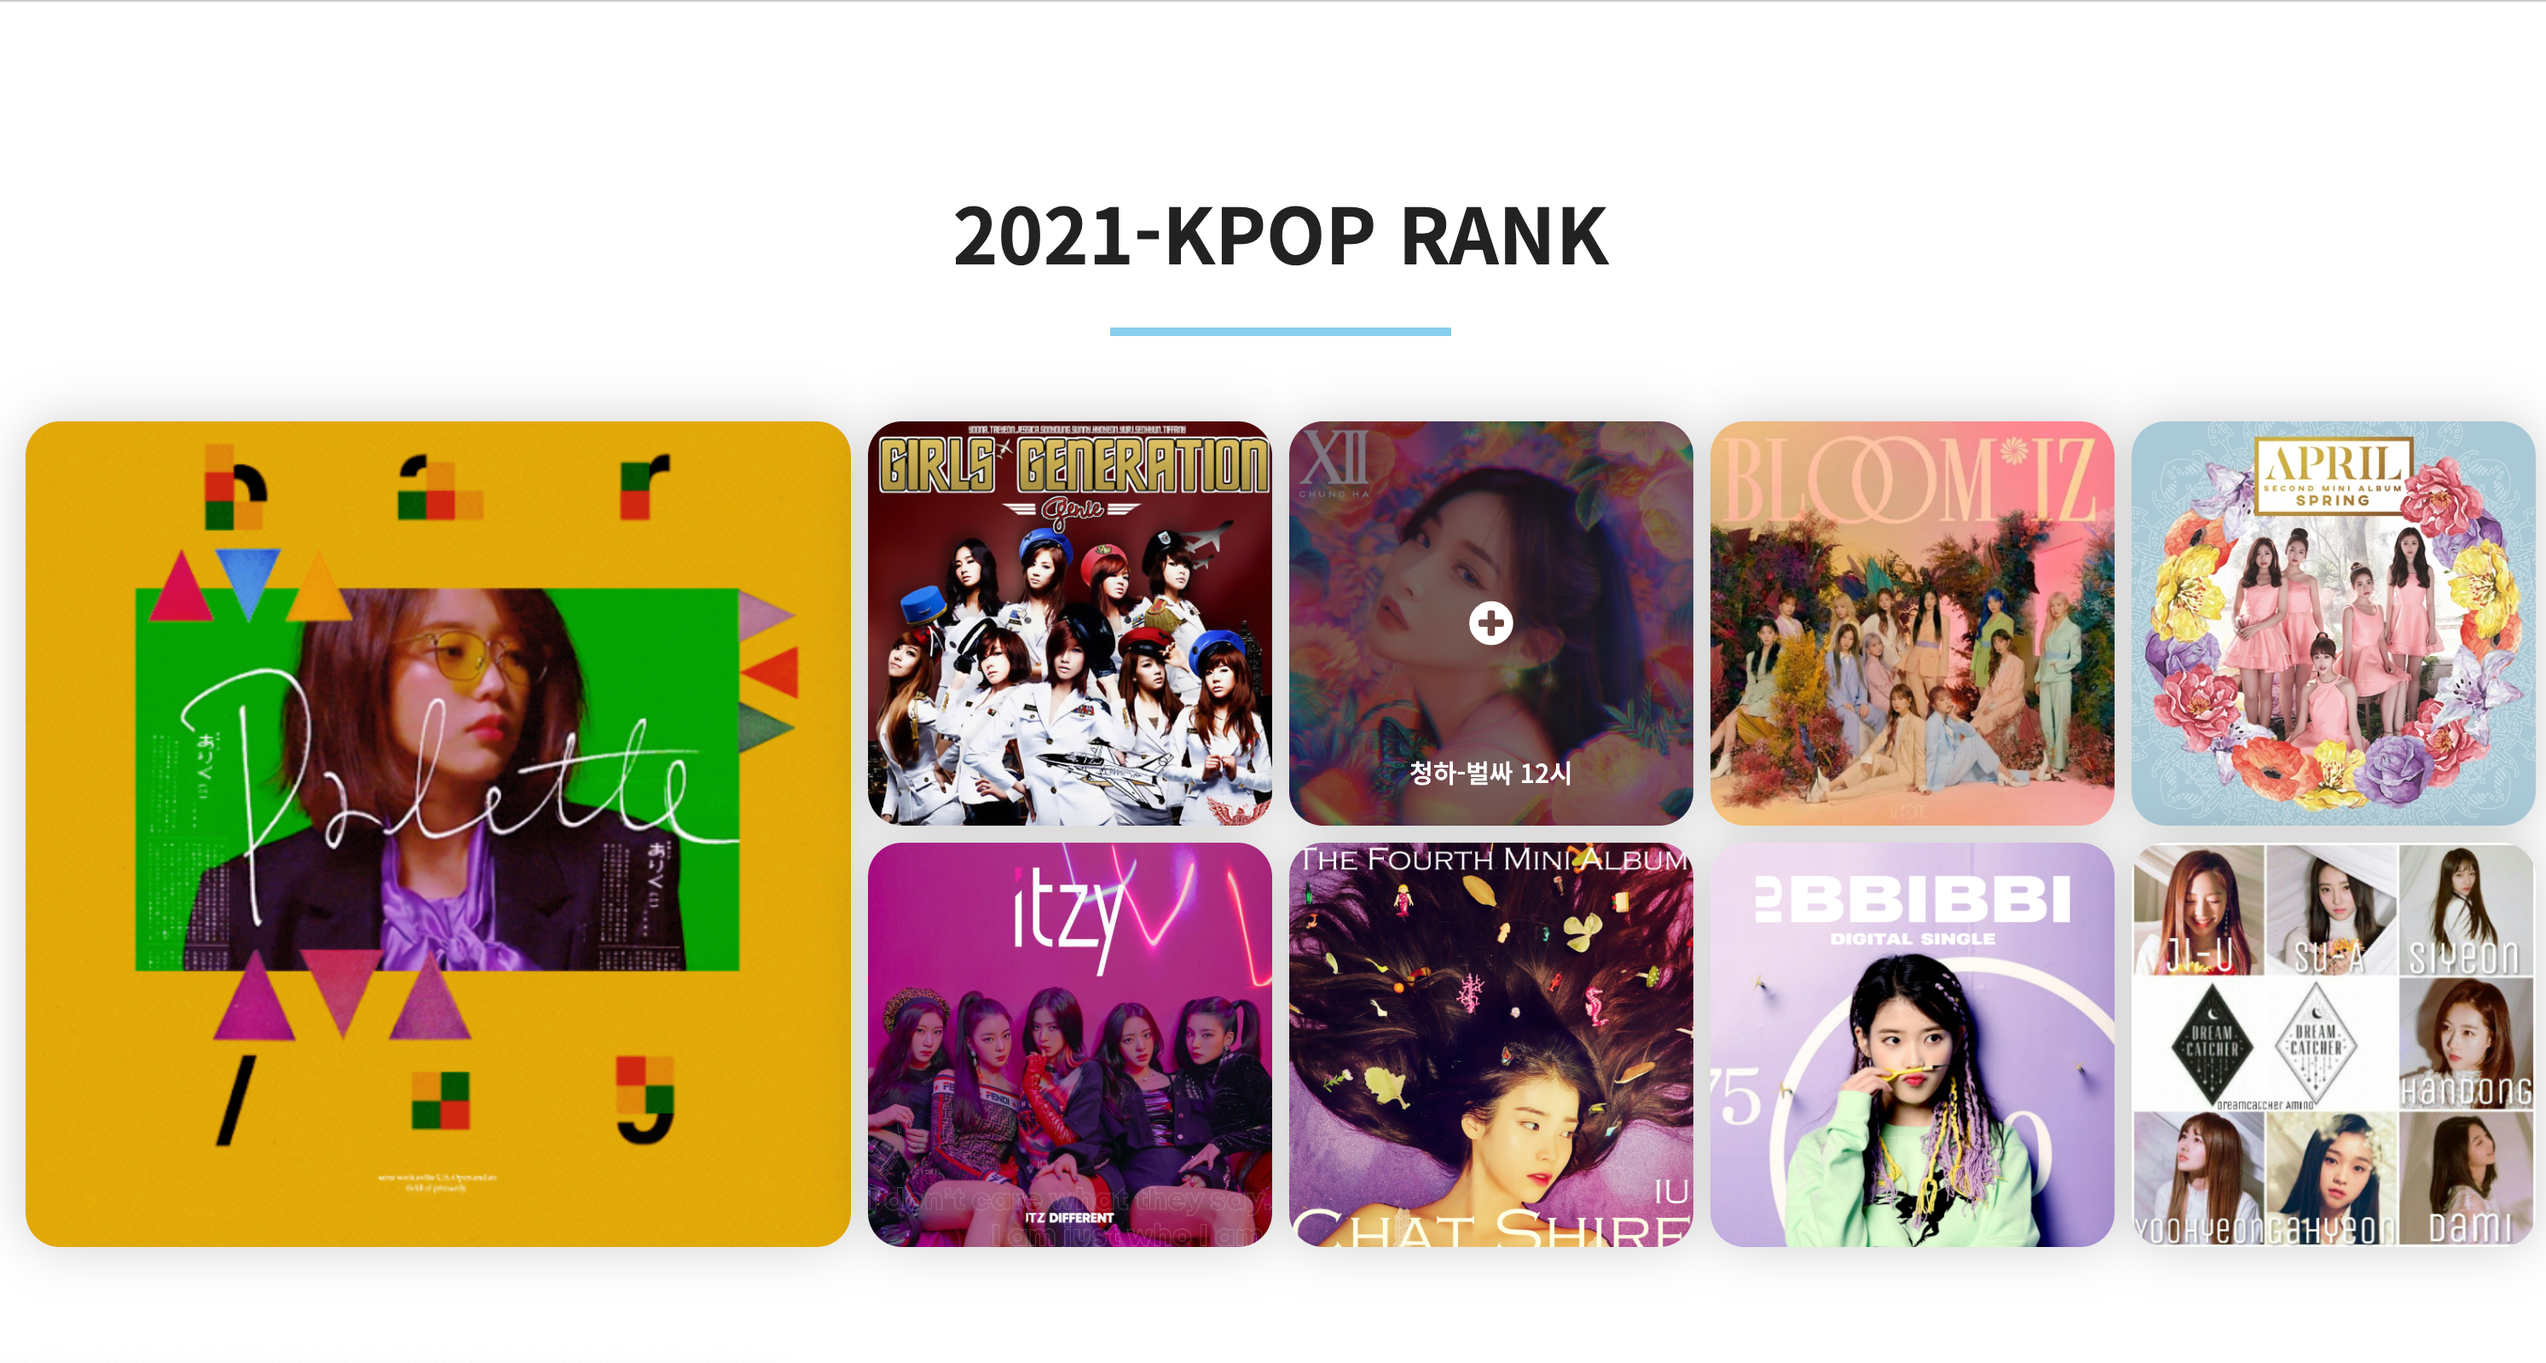
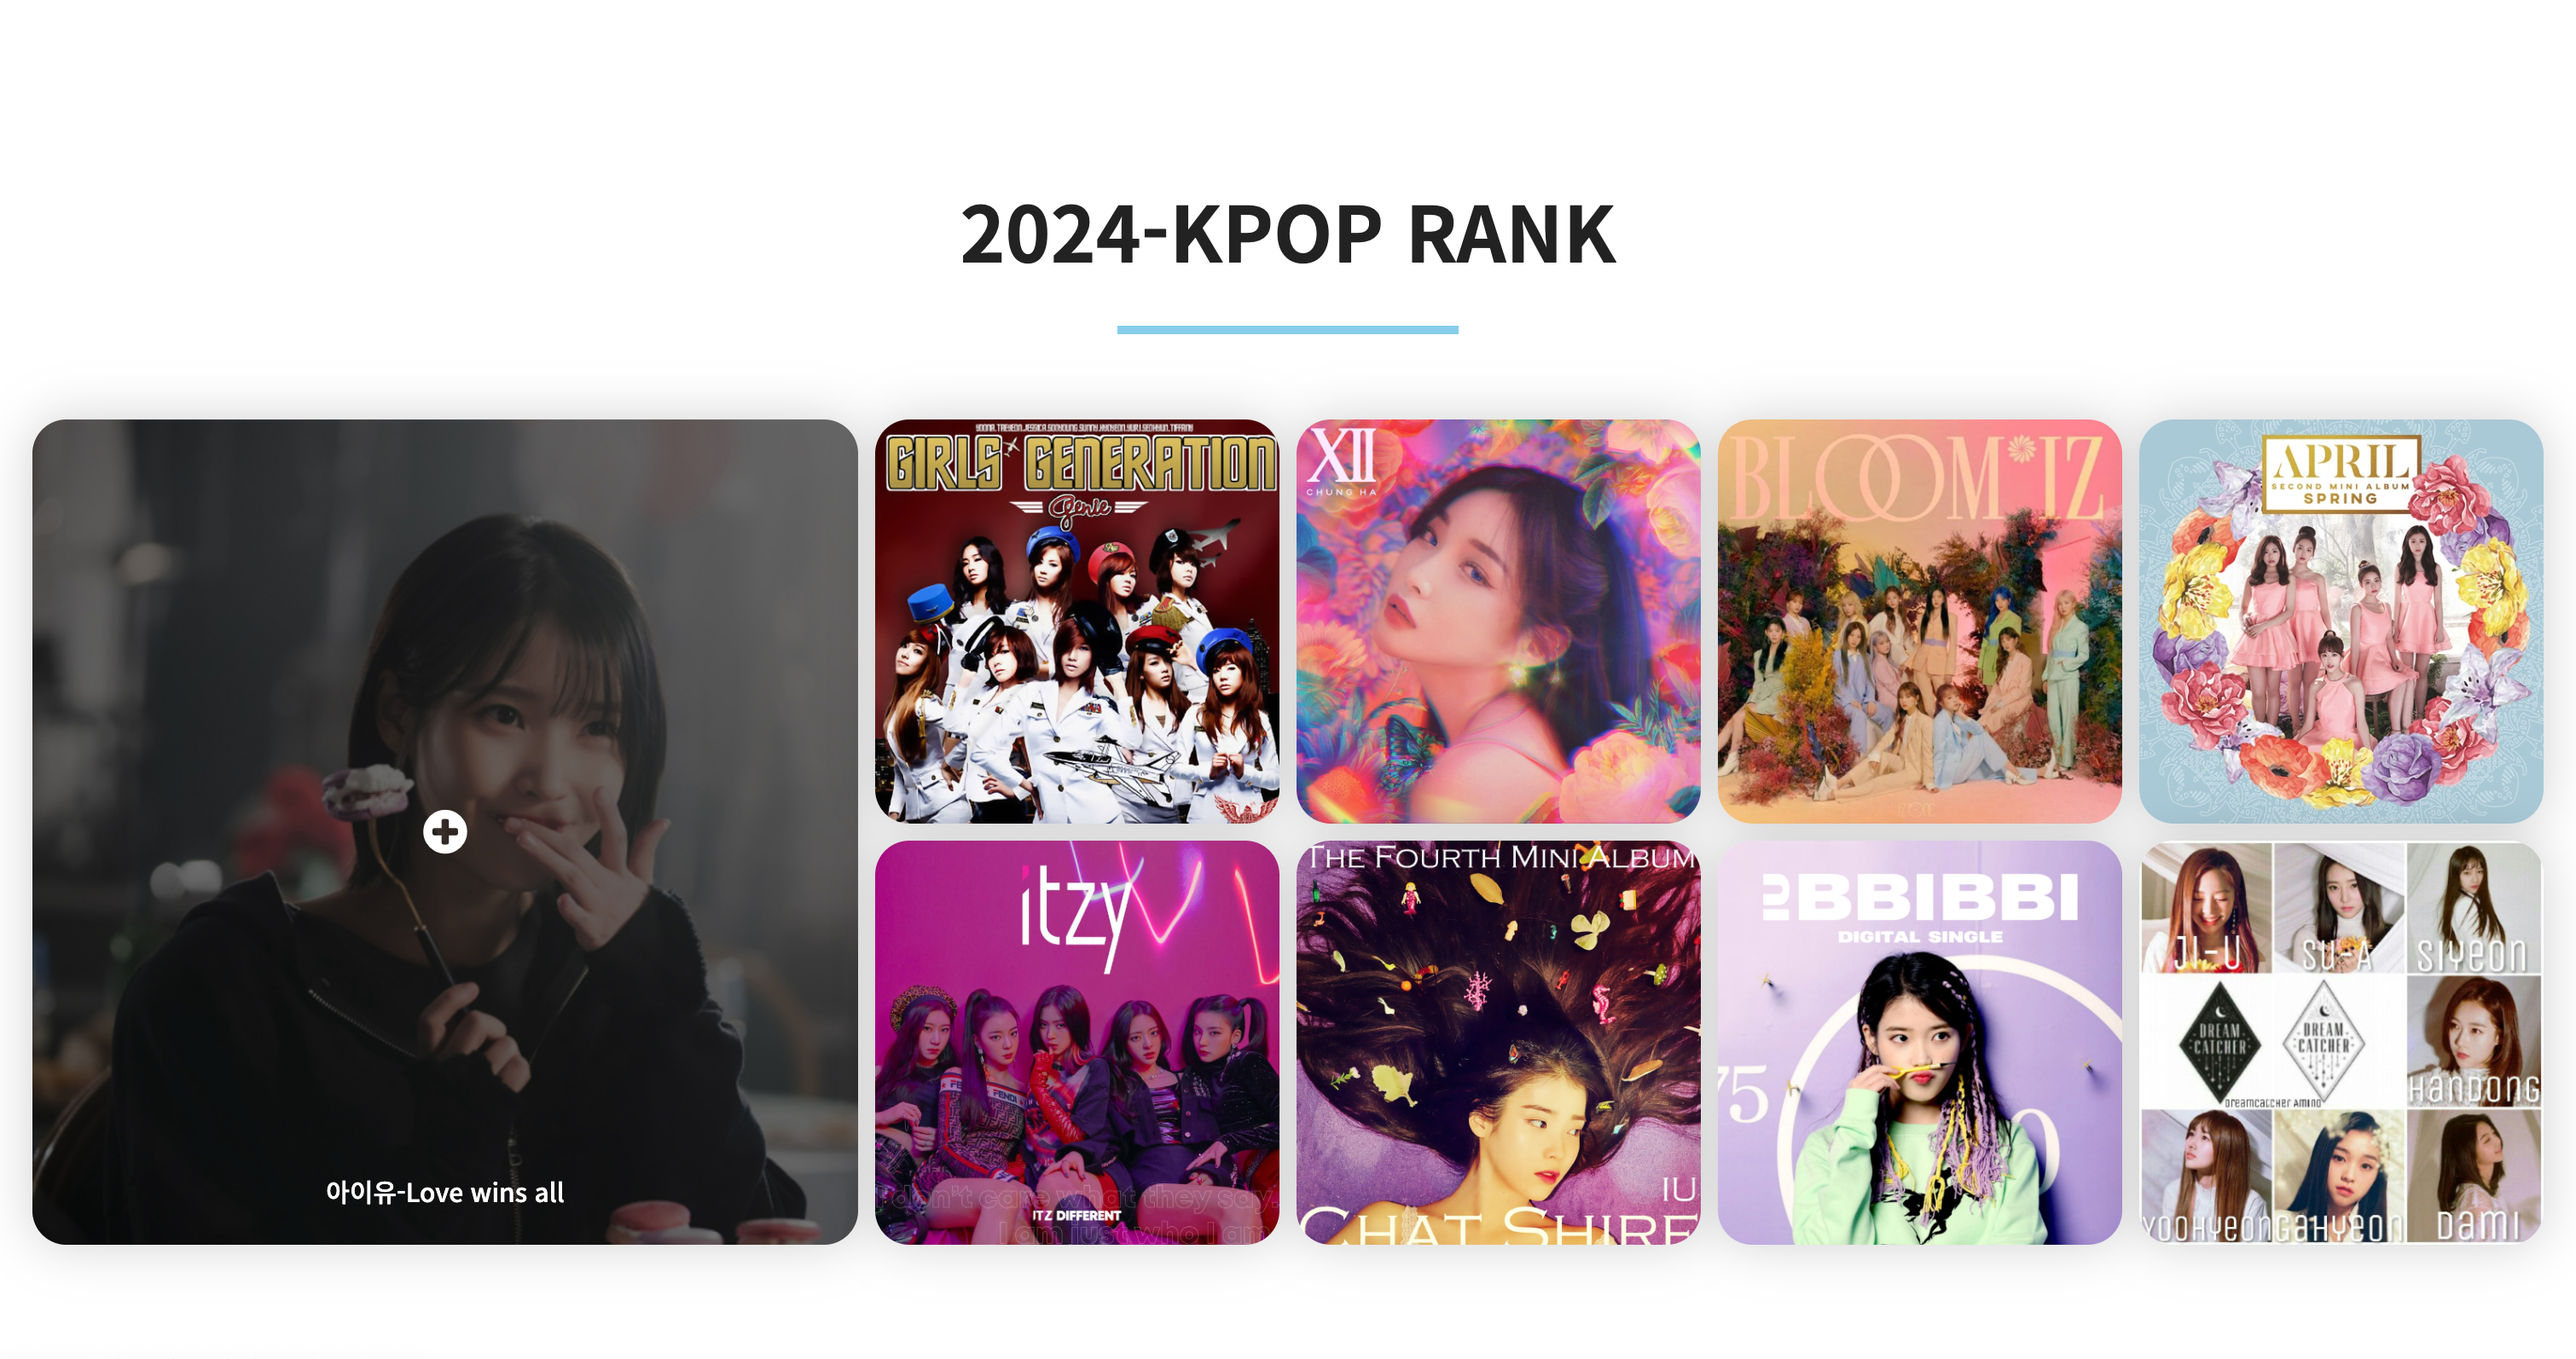
docs: work info 및 이미지 수정

diff --git a/index.html b/index.html
@@ -359,44 +359,74 @@
           <div class="swiper-wrapper">
             <div class="swiper-slide">
               <img class="slide-image" src="images/et01.jpg" alt="et01" />
-              <div class="link">
-                <a href="https://github.com/azure0929/hover-effect-01" target="_blank"><img src="images/github.png" alt="github" /></a>
-                <a href="https://hover-effect-01.netlify.app/" target="_blank">view</a>
+              <div class="info">
+                <div>
+                  <span>경우의 수 배우 프로필 - Flex&Filter</span>
+                </div>
+                <div class="link">
+                  <a href="https://github.com/azure0929/hover-effect-01" target="_blank"><img src="images/github.png" alt="github" /></a>
+                  <a href="https://hover-effect-01.netlify.app/" target="_blank">view</a>
+                </div>
               </div>
             </div>
             <div class="swiper-slide">
               <img class="slide-image" src="images/et02.jpg" alt="et02" />
-              <div class="link">
-                <a href="https://github.com/azure0929/hover-effect-02" target="_blank"><img src="images/github.png" alt="github" /></a>
-                <a href="https://hover-effect-02.netlify.app/" target="_blank">view</a>
+              <div class="info">
+                <div>
+                  <span>지역 소개 - Flex&@keyframe zoom</span>
+                </div>
+                <div class="link">
+                  <a href="https://github.com/azure0929/hover-effect-02" target="_blank"><img src="images/github.png" alt="github" /></a>
+                  <a href="https://hover-effect-02.netlify.app/" target="_blank">view</a>
+                </div>
               </div>
             </div>
             <div class="swiper-slide">
               <img class="slide-image" src="images/et03.jpg" alt="et03" />
-              <div class="link">
-                <a href="https://github.com/azure0929/prototype-01" target="_blank"><img src="images/github.png" alt="github" /></a>
-                <a href="https://prototype-kpop.netlify.app/" target="_blank">view</a>
+              <div class="info">
+                <div>
+                  <span>2024 K-POP RANK - Grid&Featherlight&반응형</span>
+                </div>
+                <div class="link">
+                  <a href="https://github.com/azure0929/prototype-01" target="_blank"><img src="images/github.png" alt="github" /></a>
+                  <a href="https://prototype-kpop.netlify.app/" target="_blank">view</a>
+                </div>
               </div>
             </div>
             <div class="swiper-slide">
               <img class="slide-image" src="images/et04.jpg" alt="et04" />
-              <div class="link">
-                <a href="https://github.com/azure0929/prototype-02" target="_blank"><img src="images/github.png" alt="github" /></a>
-                <a href="https://prototype-cgv.netlify.app/" target="_blank">view</a>
+              <div class="info">
+                <div>
+                  <span>Movie Page - Fadin&out</span>
+                </div>
+                <div class="link">
+                  <a href="https://github.com/azure0929/prototype-02" target="_blank"><img src="images/github.png" alt="github" /></a>
+                  <a href="https://prototype-cgv.netlify.app/" target="_blank">view</a>
+                </div>
               </div>
             </div>
             <div class="swiper-slide">
               <img class="slide-image" src="images/et05.jpg" alt="et05" />
-              <div class="link">
-                <a href="https://github.com/azure0929/card-ui-01" target="_blank"><img src="images/github.png" alt="github" /></a>
-                <a href="https://card-ui-01.netlify.app/" target="_blank">view</a>
+              <div class="info">
+                <div>
+                  <span>드라마 배우 프로필 - Flex-wrap&반응형</span>
+                </div>
+                <div class="link">
+                  <a href="https://github.com/azure0929/card-ui-01" target="_blank"><img src="images/github.png" alt="github" /></a>
+                  <a href="https://card-ui-01.netlify.app/" target="_blank">view</a>
+                </div>
               </div>
             </div>
             <div class="swiper-slide">
               <img class="slide-image" src="images/et06.jpg" alt="et06" />
-              <div class="link">
-                <a href="https://github.com/azure0929/card-ui-02" target="_blank"><img src="images/github.png" alt="github" /></a>
-                <a href="https://card-ui-02.netlify.app/" target="_blank">view</a>
+              <div class="info">
+                <div>
+                  <span>상품 소개 - CSS Counter Style</span>
+                </div>
+                <div class="link">
+                  <a href="https://github.com/azure0929/card-ui-02" target="_blank"><img src="images/github.png" alt="github" /></a>
+                  <a href="https://card-ui-02.netlify.app/" target="_blank">view</a>
+                </div>
               </div>
             </div>
           </div>

diff --git a/style.css b/style.css
@@ -456,8 +456,13 @@ header .inner .gnb li {
   font-weight: 700;
   margin-bottom: 100px;
 }
+.work .info {
+  margin-top: 12px;
+  display: flex;
+  align-items: center;
+  justify-content: space-between;
+}
 .work .link {
-  margin-top: 8px;
   display: flex;
   gap: 10px;
   justify-content: end;
